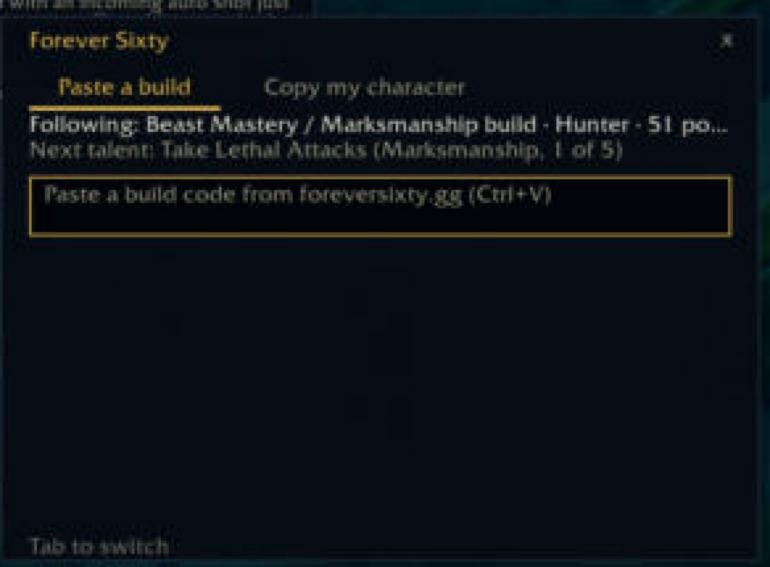
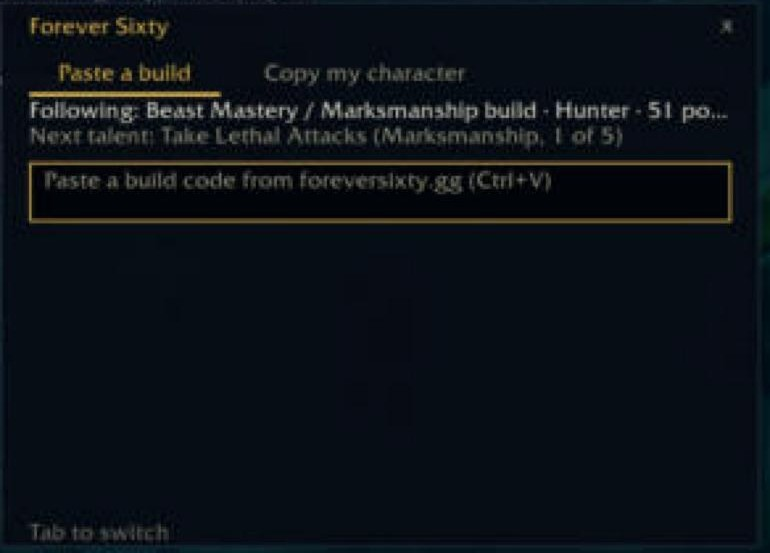
fix(web): addon page and roster fix round 2

diff --git a/web/src/components/guild/GuildRosterTable.svelte b/web/src/components/guild/GuildRosterTable.svelte
@@ -141,17 +141,17 @@
     'h-9 bg-none border-none p-0 text-[11px] font-bold tracking-[0.1em] uppercase text-muted';
   const SORT_HEADER_ACTIVE = 'text-gold';
   const ROW =
-    'guild-roster-row flex flex-wrap items-center gap-3 border-line-soft border-b py-2.5 xl:flex-nowrap';
+    'guild-roster-row flex flex-wrap items-center gap-3 border-line-soft border-b py-2.5 lg:flex-nowrap';
 </script>
 
 {#snippet inGame(row: GuildRosterRow)}
   {@const identity = addonIdentity(row)}
   {@const none = identity === null || row.addon === undefined || row.addon === null}
   <!-- The slot is the same width on every row, so the row's height never depends on how much
-       the addon knew: its text wraps inside it. Below xl it has a line of its own, and a row
+       the addon knew: its text wraps inside it. Below lg it has a line of its own, and a row
        the snapshot did not carry has none there at all (no lone "—"). -->
   <div
-    class={`min-w-0 basis-full text-[12px] break-words xl:shrink-0 xl:basis-[280px] ${none ? 'hidden xl:block' : ''}`}
+    class={`min-w-0 basis-full text-[12px] break-words lg:shrink-0 lg:basis-[260px] ${none ? 'hidden lg:block' : ''}`}
     data-testid="guild-roster-ingame-slot"
   >
     <span class="sr-only">{guildRosterAddonCopy.srLabel}</span>
@@ -168,19 +168,22 @@
       {@const seen = addonSeen(row.addon.seen_at, today, withheld)}
       {@const gapLabel = addonGapLabel(row.addon.gear_gap)}
       {@const build = row.addon.build !== null && row.addon.build !== '' ? row.addon.build : null}
+      <!-- The spaces are mustaches because Svelte drops a bare space at the start of an {#if}. -->
+      <!-- eslint-disable svelte/no-useless-mustaches -->
       <span data-testid="guild-roster-ingame"
         >{#if identity.level !== null}{addonLevelSpec(identity.level, identity.spec)}{#if identity.spec !== null}
-            &#32;<span class="text-muted">{guildRosterAddonCopy.addonTag}</span>{/if}{/if}{#if gapLabel !== null}{#if identity.level !== null}
-            &#32;<span class="text-muted">{guildRosterAddonCopy.separator}</span>
+            {' '}<span class="text-muted">{guildRosterAddonCopy.addonTag}</span>{/if}{/if}{#if gapLabel !== null}{#if identity.level !== null}
+            {' '}<span class="text-muted">{guildRosterAddonCopy.separator}</span>
           {/if}
           <span class="tabular font-mono" data-testid="guild-roster-ingame-gap">{gapLabel}</span>{/if}{#if build !== null}{#if identity.level !== null || gapLabel !== null}
-            &#32;<span class="text-muted">{guildRosterAddonCopy.separator}</span>
+            {' '}<span class="text-muted">{guildRosterAddonCopy.separator}</span>
           {/if}
-          {build}{/if}{#if seen !== null}{#if identity.level !== null || gapLabel !== null || build !== null}
-            &#32;<span class="text-muted">{guildRosterAddonCopy.separator}</span>
+          {guildRosterAddonCopy.build(build)}{/if}{#if seen !== null}{#if identity.level !== null || gapLabel !== null || build !== null}
+            {' '}<span class="text-muted">{guildRosterAddonCopy.separator}</span>
           {/if}
           <span class="text-muted" style="cursor:help" title={seen.hover}>{seen.label}</span>{/if}</span
       >
+      <!-- eslint-enable svelte/no-useless-mustaches -->
     {/if}
   </div>
 {/snippet}
@@ -257,10 +260,10 @@
 
   <p class="text-muted text-[13px]" data-testid="guild-roster-addon-snapshot">{snapshotLine}</p>
 
-  <div class="flex flex-wrap gap-6 pl-1 xl:gap-3 xl:pr-0" data-testid="guild-roster-sort-header">
+  <div class="flex flex-wrap gap-6 pl-1 lg:gap-3 lg:pr-0" data-testid="guild-roster-sort-header">
     {#each SORT_COLUMNS as col (col.key)}
       <button
-        class={`${SORT_HEADER} ${col.key === 'addon_gap' ? 'min-w-0 text-left xl:ml-auto xl:w-[280px] xl:shrink-0' : ''} ${sortKey === col.key ? SORT_HEADER_ACTIVE : ''}`}
+        class={`${SORT_HEADER} ${col.key === 'addon_gap' ? 'min-w-0 text-left lg:ml-auto lg:w-[260px] lg:shrink-0' : ''} ${sortKey === col.key ? SORT_HEADER_ACTIVE : ''}`}
         title={col.hover}
         onclick={() => (sortKey = col.key)}
         data-testid={`guild-roster-sort-${col.key}`}
@@ -269,7 +272,7 @@
       </button>
     {/each}
     <!-- Where each row's actions group sits, so the In game heading stays over its slot. -->
-    <span class="hidden xl:block xl:w-[220px] xl:shrink-0" aria-hidden="true"></span>
+    <span class="hidden lg:block lg:w-[190px] lg:shrink-0" aria-hidden="true"></span>
   </div>
 
   {#if ordered.length === 0}
@@ -294,9 +297,9 @@
                 >{/if}</span
             >
           </div>
-          <!-- Below xl the facts flow with the rest of the row; at xl they wrap inside their own
+          <!-- Below lg the facts flow with the rest of the row; at lg they wrap inside their own
                group, so the In game slot and the actions keep their place at the row's end. -->
-          <div class="contents xl:flex xl:min-w-0 xl:flex-1 xl:flex-wrap xl:items-center xl:gap-x-3 xl:gap-y-1">
+          <div class="contents lg:flex lg:min-w-0 lg:flex-1 lg:flex-wrap lg:items-center lg:gap-x-3 lg:gap-y-1">
             {#if row.rank === 'officer' || row.rank === 'leader'}
               <span class="pill pill-site">{row.rank === 'leader' ? 'Leader' : 'Officer'}</span>
             {/if}
@@ -332,7 +335,7 @@
           </div>
           {@render inGame(row)}
           <div
-            class="ml-auto flex shrink-0 flex-nowrap items-center justify-end gap-3 xl:w-[220px]"
+            class="ml-auto flex shrink-0 flex-nowrap items-center justify-end gap-3 lg:w-[190px]"
             data-testid="guild-roster-actions"
           >
             {#if row.consent !== 'roster'}

diff --git a/web/src/pages/_setup.test.ts b/web/src/pages/_setup.test.ts
@@ -126,8 +126,7 @@ const MAX_IMAGE_BYTES = 200 * 1024;
 /** The addon's own `settingsCommands` block, "/fs x: what it does" per line, read from the
  *  addon's Locale.lua so this page cannot drift from it again. FS_LOCALE_LUA overrides the
  *  path; by default the main checkout's working tree beside this one, else this repo's copy.
- *  Until L5.3 lands `/fs loot` in that file, the line is inserted after `/fs ready` (the
- *  position it is ruled to have) so the gate stays green; once it is there this is a no-op. */
+ */
 function localeSettingsCommands(): string[] {
   const candidates = [
     process.env.FS_LOCALE_LUA,
@@ -138,8 +137,7 @@ function localeSettingsCommands(): string[] {
   const block = /settingsCommands\s*=\s*\{([\s\S]*?)\n\t\},/.exec(lua)?.[1] ?? '';
   const lines = [...block.matchAll(/"([^"]+)"/g)].map((m) => m[1]);
   expect(lines.length, 'settingsCommands block not found').toBeGreaterThan(9);
-  const loot = '/fs loot: what an item is worth to you';
-  if (!lines.includes(loot)) lines.splice(lines.findIndex((l) => l.startsWith('/fs floor')), 0, loot);
+  expect(lines, 'the file lists /fs loot').toContain('/fs loot: what an item is worth to you');
   return lines;
 }
 
@@ -303,16 +301,44 @@ describe('/setup: what it does in the game (L8.3)', () => {
     expect(html.split(textOf(addonCopy.pageNoNetwork).slice(0, 30)).length - 1).toBe(1);
   });
 
-  it('gives every image box a surface colour and a 420 px height cap, the image contained', () => {
-    for (const image of addonCopy.surfaces.flatMap((s) => s.images)) {
+  it('gives every image box a surface colour, a per-image height cap (900 px portrait, 420 px landscape) and a link to the full-size file', () => {
+    const images = addonCopy.surfaces.flatMap((s) => s.images);
+    expect(images.filter((i) => i.tall).map((i) => i.src).sort()).toEqual([
+      '/addon/build-dialog-copy.jpg',
+      '/addon/build-dialog-paste.jpg',
+      '/addon/character-panel-tab.jpg',
+      '/addon/guild-tab.jpg',
+      '/addon/settings-switches.jpg',
+    ]);
+    for (const image of images) {
       const at = html.indexOf(`src="${image.src}"`);
       const box = html.slice(html.lastIndexOf('<div', at), at);
       expect(box, image.src).toContain('bg-raised');
-      expect(box).toContain('max-h-[420px]');
+      expect(box).toContain(image.tall ? 'max-h-[900px]' : 'max-h-[420px]');
+      expect(box).not.toContain(image.tall ? 'max-h-[420px]' : 'max-h-[900px]');
       expect(box).toContain(`max-width: ${image.width}px`);
       const tag = /<img\s[^>]*>/.exec(html.slice(at - 200))?.[0] ?? '';
       expect(tag).toContain('object-contain');
+      // The <img> sits inside <a href="its file"> opening in the same tab.
+      const link = html.slice(html.lastIndexOf('<a ', at), at);
+      expect(link, image.src).toContain(`href="${image.src}"`);
+      expect(link).not.toContain('target=');
+      expect(html.slice(at, html.indexOf('</a>', at))).not.toContain('<a ');
     }
+  });
+
+  it('shows the hunter’s copy dialog with the export selected and the no-companion lines', () => {
+    const copy = addonCopy.surfaces.flatMap((s) => s.images).find((i) => i.src === '/addon/build-dialog-copy.jpg');
+    expect(copy?.alt).toMatch(/hunter/i);
+    expect(copy?.alt).toContain('No companion found.');
+    expect(copy?.alt).toContain('Or paste it on the site');
+    expect(copy?.alt).not.toMatch(/warrior|Deflection/i);
+  });
+
+  it('crops the settings capture to the switch list, the Commands list out', () => {
+    const settings = addonCopy.surfaces.flatMap((s) => s.images).find((i) => i.src === '/addon/settings-switches.jpg');
+    expect(settings?.height).toBeLessThanOrEqual(800);
+    expect(settings?.alt).not.toMatch(/Commands list/);
   });
 
   it('shows the hunter’s own captures, never a state that is not in the picture', () => {

diff --git a/web/src/lib/addon/copy.ts b/web/src/lib/addon/copy.ts
@@ -11,6 +11,9 @@ export interface AddonSurfaceImage {
   width: number;
   height: number;
   alt: string;
+  /** A portrait-style capture (settings, character panel, guild tab, build dialogs): shown at
+   *  native width under a 900 px cap instead of the 420 px landscape cap. */
+  tall?: boolean;
 }
 export interface AddonSurface {
   section: string;
@@ -215,6 +218,7 @@ export const addonCopy = {
       images: [
         {
           src: '/addon/character-panel-tab.jpg',
+          tall: true,
           width: 580,
           height: 796,
           alt: 'The Forever Sixty tab for a level 24 hunter: Next targets lists Ranger Bow +3.5 DPS (Ranged, World drop) and Blackened Defias Belt +1.1 DPS (Waist, The Deadmines, Captain Greenskin, 30% drop); Rotation lists Aimed Shot, Multi-Shot, Serpent Sting and Arcane Shot with their conditions, and Rapid Fire dimmed at level 26; Build reads “Plan: Beast Mastery 31 / Marksmanship 20”, “12 of 15 points on plan” and “3 off plan” in red, over the buttons Use a different build and Copy my character.',
@@ -247,6 +251,7 @@ export const addonCopy = {
       images: [
         {
           src: '/addon/guild-tab.jpg',
+          tall: true,
           width: 728,
           height: 612,
           alt:
@@ -280,16 +285,18 @@ export const addonCopy = {
       images: [
         {
           src: '/addon/build-dialog-paste.jpg',
+          tall: true,
           width: 770,
-          height: 567,
+          height: 553,
           alt:
             'The build dialog for a hunter on Paste a build: “Following: Beast Mastery / Marksmanship build · Hunter · 51 po…”, “Next talent: Take Lethal Attacks (Marksmanship, 1 of 5)”, and the empty box “Paste a build code from foreversixty.gg (Ctrl+V)”, with “Tab to switch” at the bottom.',
         },
         {
           src: '/addon/build-dialog-copy.jpg',
-          width: 633,
-          height: 464,
-          alt: 'The build dialog on Copy my character: “Selected. Press Ctrl+C, then paste it on foreversixty.gg.” over the selected export, then “The site has your character from 10 Oct 20:00. Yours is newer.”, “Sim done from an earlier copy · a new sim is queued” and “Your next step: Take Deflection (1 of 2)”.',
+          tall: true,
+          width: 770,
+          height: 550,
+          alt: 'The build dialog on Copy my character with the hunter’s export string selected (FS1:1.60.1.70291:hunter:…), then “No companion found.”, “The companion is a small app on your computer that sends this when you log out.” and “Or paste it on the site at foreversixty.gg.”',
         },
       ],
     },
@@ -300,10 +307,11 @@ export const addonCopy = {
       images: [
         {
           src: '/addon/settings-switches.jpg',
+          tall: true,
           width: 1166,
-          height: 1036,
+          height: 790,
           alt:
-            'The Forever Sixty settings page with its eight switches ticked, each with its hint: Show the chip, Hide the chip in combat, Marks on the talent window, Show the minimap button, Gear tips on item tooltips, Score badges in chat, Share my build with my guild and Save my character for the companion app, then the Reset positions button and the start of the Commands list.',
+            'The Forever Sixty settings page with its eight switches ticked, each with its hint: Show the chip, Hide the chip in combat, Marks on the talent window, Show the minimap button, Gear tips on item tooltips, Score badges in chat, Share my build with my guild and Save my character for the companion app, then the Reset positions button.',
         },
       ],
     },

diff --git a/web/src/components/guild/GuildRosterTable.test.ts b/web/src/components/guild/GuildRosterTable.test.ts
@@ -86,11 +86,11 @@ describe('GuildRosterTable: the In game column (L8.3)', () => {
     // Zulmara: the site says Marksmanship, the addon says Survival.
     const zulmara = byName.get('Zulmara') ?? '';
     expect(zulmara).toContain('data-testid="guild-roster-ingame"');
-    expect(text(zulmara)).toContain('Level 60 Survival per addon · gap 12 DPS · Survival raid · seen 21:40');
+    expect(text(zulmara)).toContain('Level 60 Survival per addon · gap 12 DPS · build: Survival raid · seen 21:40');
     expect(zulmara).toMatch(/class="[^"]*text-muted[^"]*"[^>]*>per addon</);
     // Kraggor: the addon agrees with the site's Protection, so the level shows with no tag.
     const kraggor = text(byName.get('Kraggor') ?? '');
-    expect(kraggor).toContain('Level 60 · gap 4 DPS · Protection raid · seen 21:38');
+    expect(kraggor).toContain('Level 60 · gap 4 DPS · build: Protection raid · seen 21:38');
     expect(kraggor).not.toContain('per addon');
     expect(kraggor).not.toContain('(addon)');
     expect(withSnapshot).not.toContain('(addon)');
@@ -129,7 +129,7 @@ describe('GuildRosterTable: the In game column (L8.3)', () => {
     expect(windtalon).not.toContain('data-testid="guild-roster-ingame"');
     // A phone shows no lone "—": the whole slot is hidden below md.
     const slot = /<div[^>]*data-testid="guild-roster-ingame-slot"[^>]*>/.exec(windtalon)?.[0] ?? '';
-    expect(slot).toMatch(/class="[^"]*\bhidden\b[^"]*xl:block/);
+    expect(slot).toMatch(/class="[^"]*\bhidden\b[^"]*lg:block/);
     // A matched row's slot is shown on phones.
     const matched = /<div[^>]*data-testid="guild-roster-ingame-slot"[^>]*>/.exec(rows(withSnapshot).get('Zulmara') ?? '')?.[0] ?? '';
     expect(matched).not.toMatch(/\bhidden\b/);
@@ -142,20 +142,30 @@ describe('GuildRosterTable: the In game column (L8.3)', () => {
       expect(slotAt, name).toBeGreaterThan(-1);
       expect(actionsAt, `${name} actions`).toBeGreaterThan(slotAt);
       const slot = /<div[^>]*data-testid="guild-roster-ingame-slot"[^>]*>/.exec(part)?.[0] ?? '';
-      expect(slot).toContain('xl:basis-[280px]');
-      expect(slot).toContain('xl:shrink-0');
+      expect(slot).toContain('lg:basis-[260px]');
+      expect(slot).toContain('lg:shrink-0');
       expect(slot).toContain('min-w-0');
       const actions = /<div[^>]*data-testid="guild-roster-actions"[^>]*>/.exec(part)?.[0] ?? '';
       expect(actions).toContain('flex-nowrap');
       expect(actions).toContain('shrink-0');
+      expect(actions).toContain('lg:w-[190px]');
+      expect(actions).not.toMatch(/\bxl:/);
+      expect(slot).not.toMatch(/\bxl:/);
       // Nothing of the row sits between the slot and the actions but the slot's own content.
       expect(part.slice(actionsAt)).not.toContain('data-testid="guild-roster-ingame-slot"');
     }
   });
 
+  it('labels the build name in the In game slot from the copy file', () => {
+    expect(guildRosterAddonCopy.build('Survival raid')).toBe('build: Survival raid');
+    const zulmara = rows(withSnapshot).get('Zulmara') ?? '';
+    expect(text(zulmara)).toContain('build: Survival raid');
+    expect(text(zulmara)).not.toMatch(/gap 12 DPS · Survival raid/);
+  });
+
   it('the In game header sits over the same slot', () => {
     const header = /<button[^>]*data-testid="guild-roster-sort-addon_gap"[^>]*>/.exec(withSnapshot)?.[0] ?? '';
-    expect(header).toContain('xl:w-[280px]');
+    expect(header).toContain('lg:w-[260px]');
   });
 
   it('puts a dot between the spec and "alt of {main}" rather than running them together', () => {

diff --git a/web/tests/e2e/guild-centre.spec.ts b/web/tests/e2e/guild-centre.spec.ts
@@ -350,10 +350,10 @@ test.describe('roster: the In game column from the addon snapshot (L8.3)', () =>
       new RegExp(`^Roster from the addon · sent by Zulmara 3 minutes ago · 3 of ${fixtureRows} members seen$`),
     );
     await expect(rowNamed(page, 'Zulmara').getByTestId('guild-roster-ingame')).toHaveText(
-      /^Level 60 Survival\s+per addon\s+·\s+gap 12 DPS\s+·\s+Survival raid\s+·\s+seen 21:40$/,
+      /^Level 60 Survival\s+per addon\s+·\s+gap 12 DPS\s+·\s+build: Survival raid\s+·\s+seen 21:40$/,
     );
     await expect(rowNamed(page, 'Kraggor').getByTestId('guild-roster-ingame')).toHaveText(
-      /^Level 60\s+·\s+gap 4 DPS\s+·\s+Protection raid\s+·\s+seen 21:38$/,
+      /^Level 60\s+·\s+gap 4 DPS\s+·\s+build: Protection raid\s+·\s+seen 21:38$/,
     );
     const none = rowNamed(page, 'Windtalon').getByTestId('guild-roster-ingame-none');
     await expect(none).toHaveText('—');

diff --git a/web/src/lib/guild/copy.ts b/web/src/lib/guild/copy.ts
@@ -178,6 +178,8 @@ export const guildRosterAddonCopy = {
   /** The hover on a row whose member shares nothing but the time the addon saw them. */
   withheldHover: 'Details withheld by the member',
   separator: '·',
+  /** The build name in the In game slot, so it does not read as a stray word. */
+  build: (name: string): string => `build: ${name}`,
   /** `seen` counts the roster rows the snapshot matched; `total` is every roster row. */
   snapshotLine: (by: string, when: string, seen: number, total: number): string =>
     `Roster from the addon · sent by ${by} ${when} · ${seen} of ${total} members seen`,

diff --git a/web/src/components/GuildRosterHandoff.svelte b/web/src/components/GuildRosterHandoff.svelte
@@ -34,7 +34,7 @@
 <!-- `stacked` (the Roster tab's fixed actions slot): the two links sit one above the other from
      lg up, so the group is narrow enough never to wrap or push the Remove button. -->
 <div
-  class={`flex min-h-11 flex-wrap items-center gap-3 md:min-h-0 ${stacked ? 'xl:flex-col xl:flex-nowrap xl:items-end xl:gap-1' : ''}`}
+  class={`flex min-h-11 flex-wrap items-center gap-3 md:min-h-0 ${stacked ? 'lg:flex-col lg:flex-nowrap lg:items-end lg:gap-1' : ''}`}
   data-testid="guild-roster-handoff"
 >
   {#if status === 'loading'}
